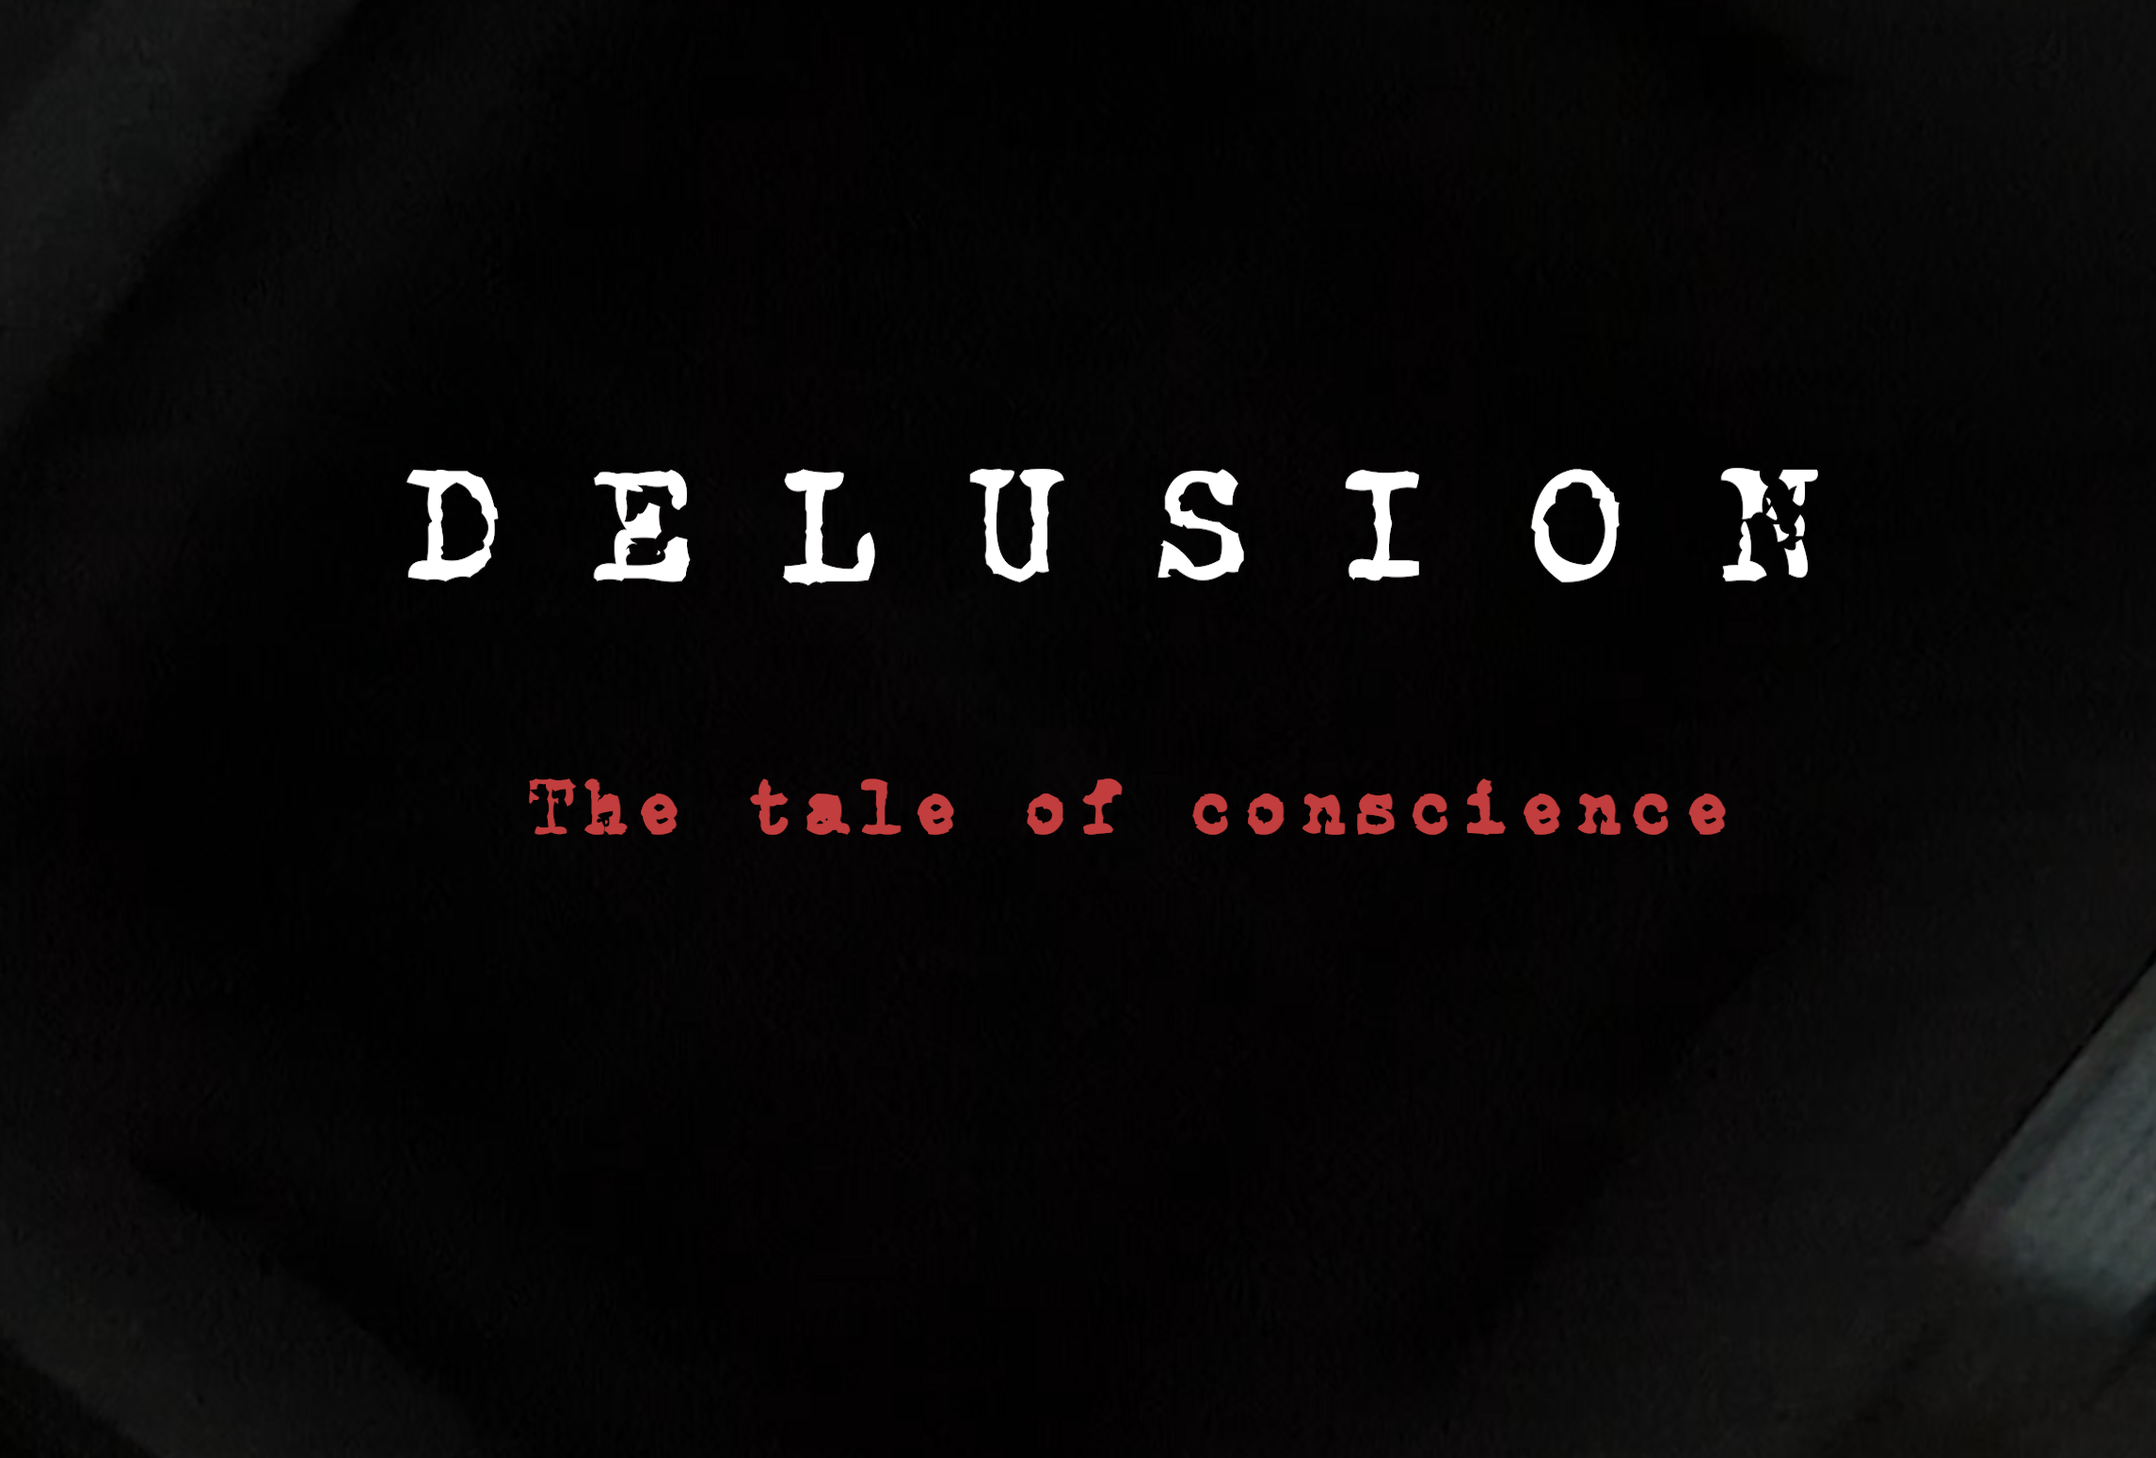
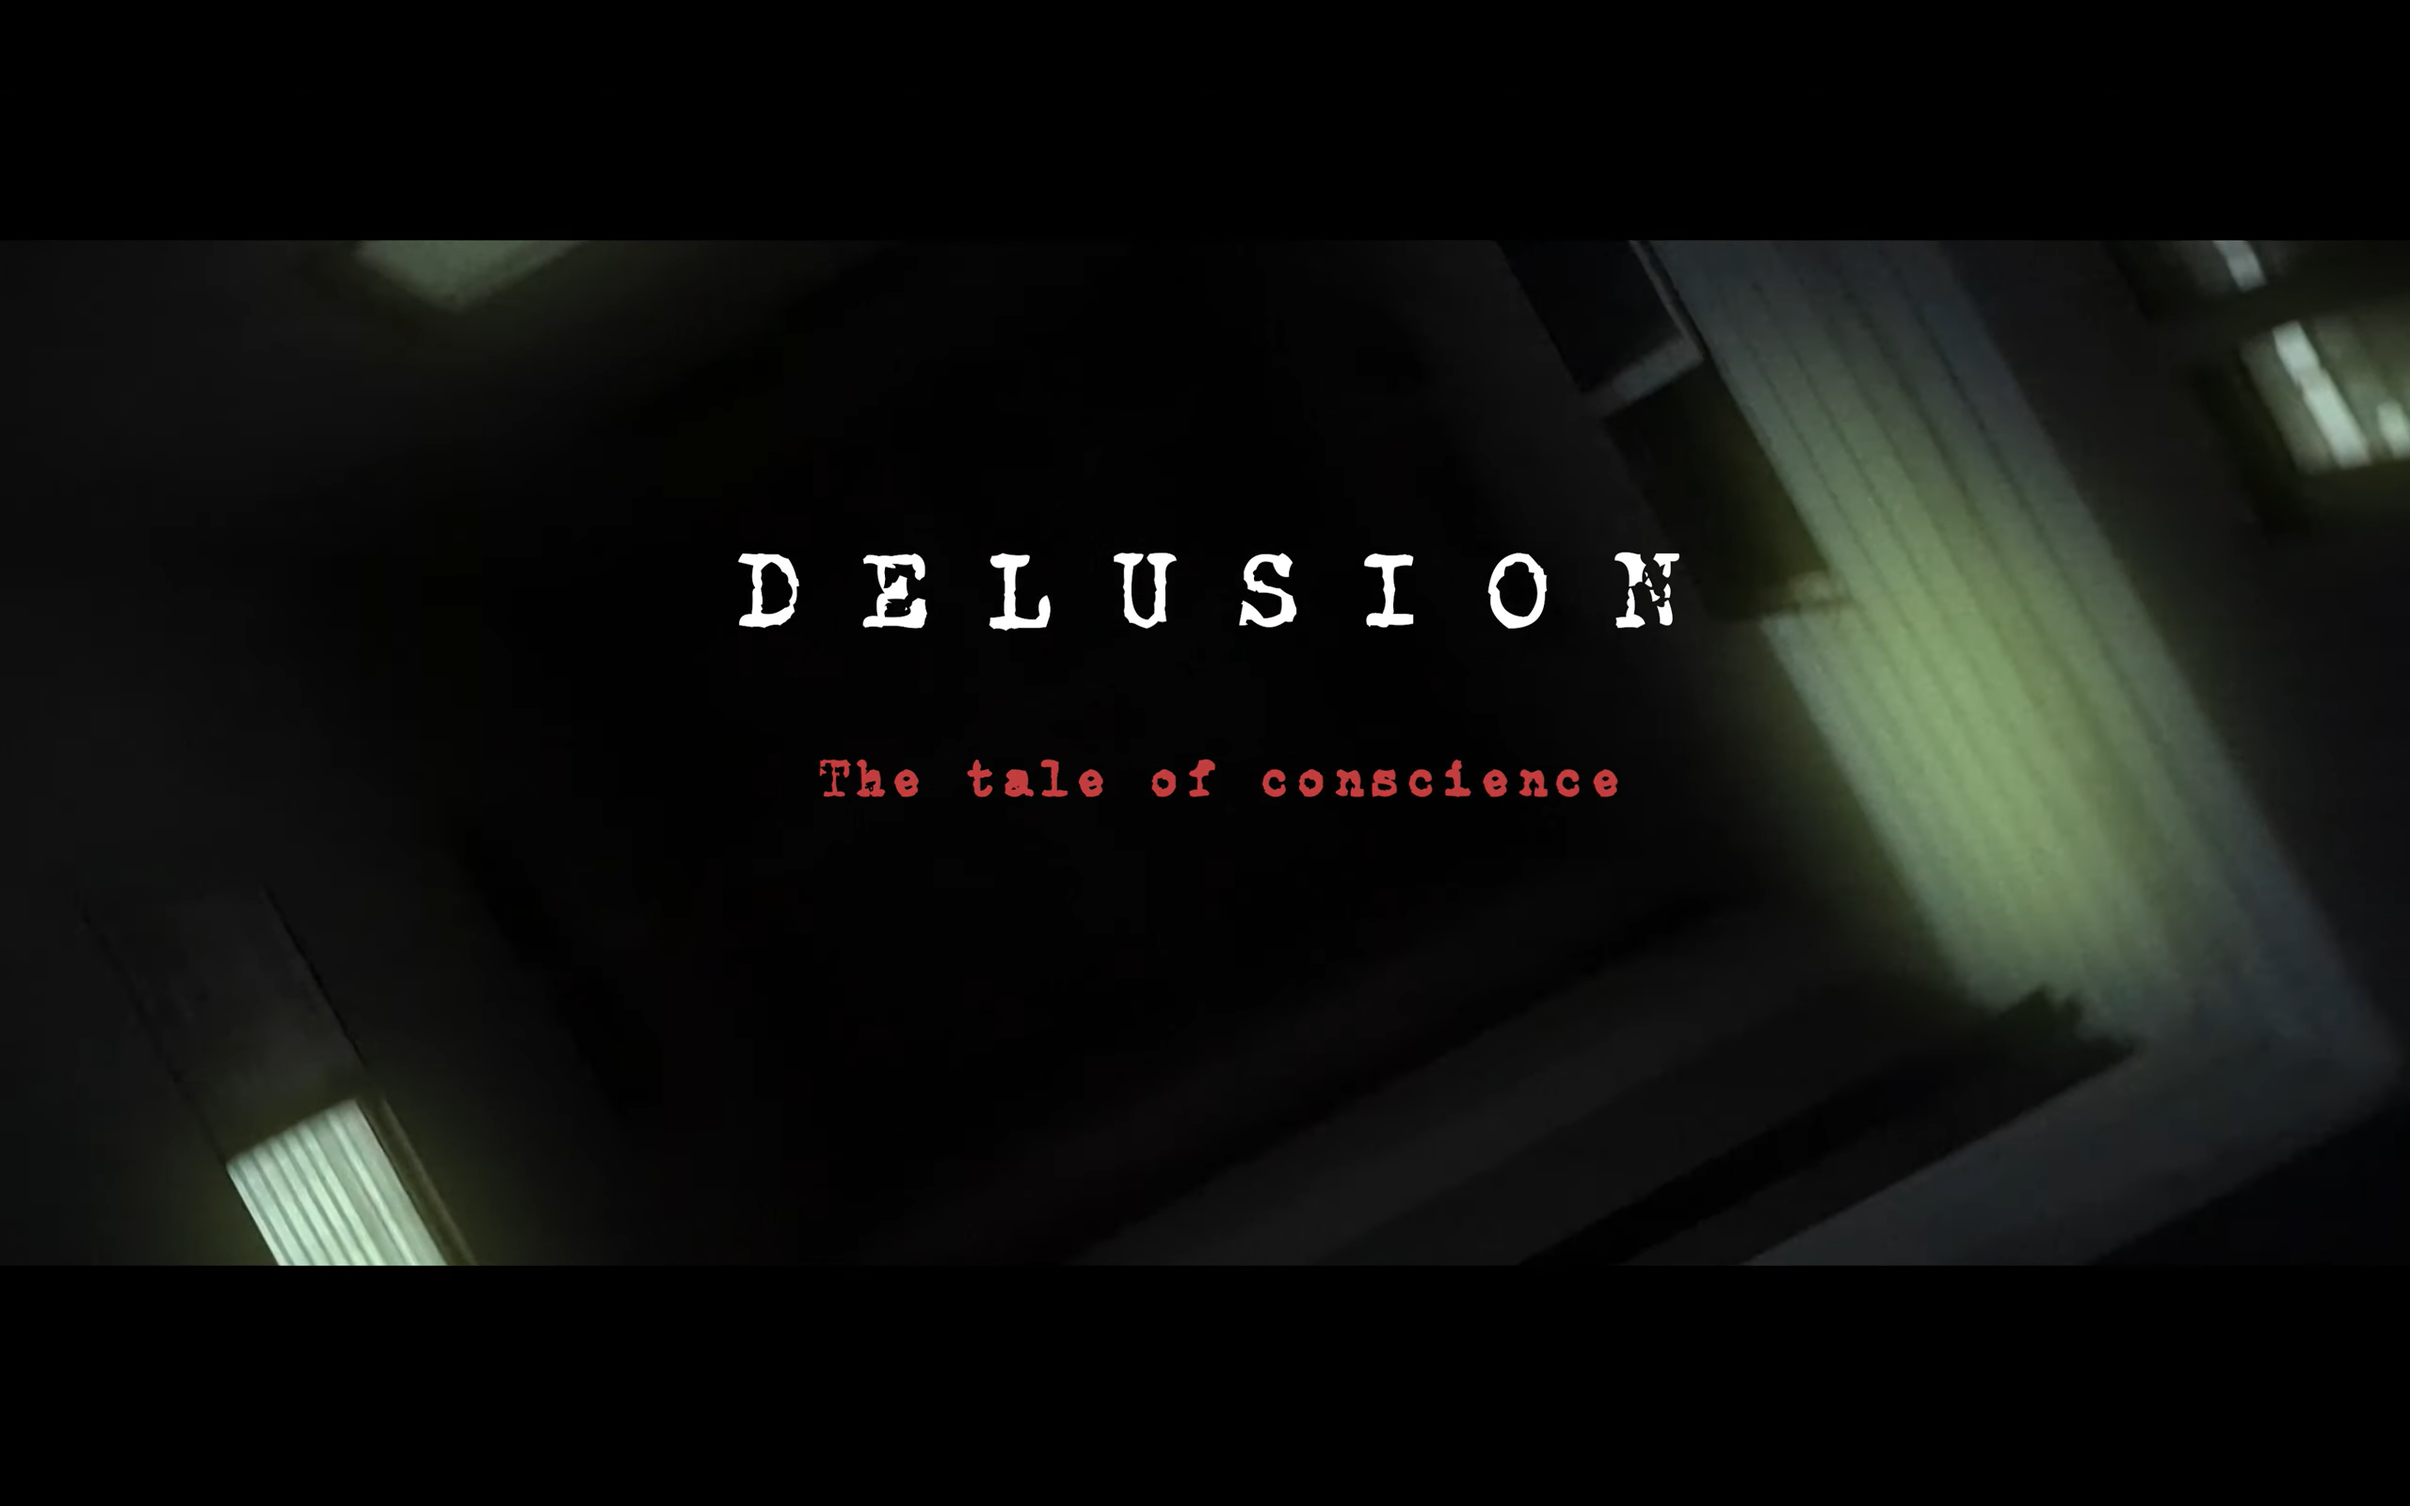
final1

diff --git a/public/works/videos.html b/public/works/videos.html
@@ -4,6 +4,7 @@
 <head>
     <meta charset="UTF-8">
     <title>Naitik's Works</title>
+    <link rel="icon" type="image/x-icon" href="./favicon.png">
     <meta name="robots" content="noindex, nofollow" />
     <link rel="dns-prefetch" href="//stats.wp.com" />
     <link rel="alternate" type="application/rss+xml" title="Elementor Tuts by The Lytbox Academy &raquo; Feed"
@@ -992,7 +993,9 @@
                                 <div class="elementor-element elementor-element-5f0a87ed elementor-widget elementor-widget-heading"
                                     data-id="5f0a87ed" data-element_type="widget" data-widget_type="heading.default">
                                     <div class="elementor-widget-container">
-                                        <h2 class="elementor-heading-title elementor-size-default">Delusion-Short Film
+                                        <h2 class="elementor-heading-title elementor-size-default">Delusion - A Coded
+                                            Short
+                                            Films
                                         </h2>
                                     </div>
                                 </div>
@@ -1034,10 +1037,12 @@
                                             }
                                         </style>
                                         <p>A short film, depicting the mixture of thoughts in the mind of a person from
-                                            the modern earth</p>
+                                            the modern earth. Mostly for editing skills and a hidden story</p>
                                     </div>
                                 </div>
-                                <button class="ytbut">Watch in YouTube</button>
+                                <button class="ytbut"
+                                    onclick="window.location.href='https://youtu.be/rHBQk5pUTjM?si=EnAZRKTya48EwK9u';'_blank'">Watch
+                                    in YouTube</button>
                             </div>
                         </div>
                         <div class="elementor-element elementor-element-5e733559 blob e-flex e-con-boxed e-con e-child"
@@ -1066,26 +1071,28 @@
                                     data-id="56d2d3a2" data-element_type="widget" data-widget_type="image.default">
                                     <div class="elementor-widget-container">
                                         <img fetchpriority="high" decoding="async" width="800" height="800"
-                                            src="./delusion.png" class="attachment-large size-large wp-image-26675"
-                                            alt />
+                                            src="./pond.png" class="attachment-large size-large wp-image-26675" alt />
                                     </div>
                                 </div>
                                 <div class="elementor-element elementor-element-5d66333c elementor-widget elementor-widget-heading"
                                     data-id="5d66333c" data-element_type="widget" data-widget_type="heading.default">
                                     <div class="elementor-widget-container">
-                                        <h2 class="elementor-heading-title elementor-size-default">Hover over this card
-                                            and see the magic happen!</h2>
+                                        <h2 class="elementor-heading-title elementor-size-default">Pondicherry: A
+                                            Cinematic Tour</h2>
                                     </div>
                                 </div>
                                 <div class="elementor-element elementor-element-47e1799e elementor-widget elementor-widget-text-editor"
                                     data-id="47e1799e" data-element_type="widget"
                                     data-widget_type="text-editor.default">
                                     <div class="elementor-widget-container">
-                                        <p>Lorem ipsum dolor sit amet, consectetur adipiscing elit. Ut elit tellus,
-                                            luctus nec ullamcorper mattis, pulvinar dapibus leo.</p>
+                                        <p>Going on a trip, leaving everything unplanned, taking instantaneous
+                                            decisions, all that covered in a 2 min film</p>
                                     </div>
                                 </div>
-                                <button class="ytbut">Watch in YouTube</button>
+                                <button class="ytbut"
+                                    onclick="window.location.href='https://youtu.be/ByAcOevp8Fo?si=RAm0sTBglkyi6rUF';'_blank'">Watch
+                                    in
+                                    YouTube</button>
                             </div>
                         </div>
                         <div class="elementor-element elementor-element-7294984f blob e-flex e-con-boxed e-con e-child"
@@ -1114,26 +1121,27 @@
                                     data-id="6aeff574" data-element_type="widget" data-widget_type="image.default">
                                     <div class="elementor-widget-container">
                                         <img fetchpriority="high" decoding="async" width="800" height="800"
-                                            src="./delusion.png" class="attachment-large size-large wp-image-26675"
-                                            alt />
+                                            src="./tala.png" class="attachment-large size-large wp-image-26675" alt />
                                     </div>
                                 </div>
                                 <div class="elementor-element elementor-element-1456834f elementor-widget elementor-widget-heading"
                                     data-id="1456834f" data-element_type="widget" data-widget_type="heading.default">
                                     <div class="elementor-widget-container">
-                                        <h2 class="elementor-heading-title elementor-size-default">Hover over this card
-                                            and see the magic happen!</h2>
+                                        <h2 class="elementor-heading-title elementor-size-default">Talakona Trek:
+                                            Adventure of risks</h2>
                                     </div>
                                 </div>
                                 <div class="elementor-element elementor-element-3e40e21f elementor-widget elementor-widget-text-editor"
                                     data-id="3e40e21f" data-element_type="widget"
                                     data-widget_type="text-editor.default">
                                     <div class="elementor-widget-container">
-                                        <p>Lorem ipsum dolor sit amet, consectetur adipiscing elit. Ut elit tellus,
-                                            luctus nec ullamcorper mattis, pulvinar dapibus leo.</p>
+                                        <p>Going into the forests, with the most risktaker of the friends, while
+                                            capturing every essence, every fun of the trek.</p>
                                     </div>
                                 </div>
-                                <button class="ytbut">Watch in YouTube</button>
+                                <button class="ytbut"
+                                    onclick="window.location.href='https://youtu.be/Y3JglaR69zc?si=1iy8iC5TM7Ky0Omv';'_blank'">Watch
+                                    in YouTube</button>
                             </div>
                         </div>
                         <div class="elementor-element elementor-element-18aa0f10 blob e-flex e-con-boxed e-con e-child"
@@ -1198,14 +1206,14 @@
                                                 display: inline-block
                                             }
                                         </style> <img fetchpriority="high" decoding="async" width="800" height="800"
-                                            src="./delusion.png" class="attachment-large size-large wp-image-26675"
-                                            alt />
+                                            src="./halc.png" class="attachment-large size-large wp-image-26675" alt />
                                     </div>
                                 </div>
                                 <div class="elementor-element elementor-element-5f0a87ed elementor-widget elementor-widget-heading"
                                     data-id="5f0a87ed" data-element_type="widget" data-widget_type="heading.default">
                                     <div class="elementor-widget-container">
-                                        <h2 class="elementor-heading-title elementor-size-default">Delusion-Short Film
+                                        <h2 class="elementor-heading-title elementor-size-default">Halcyon- The First
+                                            Year Recap
                                         </h2>
                                     </div>
                                 </div>
@@ -1246,8 +1254,7 @@
                                                 display: inline-block
                                             }
                                         </style>
-                                        <p>A short film, depicting the mixture of thoughts in the mind of a person from
-                                            the modern earth</p>
+                                        <p>Montage, the sabotage, the first year showoff of us...Releasing tomorrow</p>
                                     </div>
                                 </div>
                                 <button class="ytbut">Watch in YouTube</button>

diff --git a/data/index.ts b/data/index.ts
@@ -13,7 +13,7 @@ export const gridItems = [
     className: "lg:col-span-3 md:col-span-6 md:row-span-4 lg:min-h-[60vh]",
     imgClassName: "w-full h-full",
     titleClassName: "justify-end",
-    img: "./b1.svg",
+    img: "./b11.png",
     spareImg: "",
     link: "https://github.com/naitikbajpaii"
   },
@@ -55,7 +55,7 @@ export const gridItems = [
     className: "md:col-span-3 md:row-span-2",
     imgClassName: "absolute right-0 bottom-0 md:w-96 w-60",
     titleClassName: "justify-center md:justify-start lg:justify-center",
-    img: "./b5.svg",
+    img: "./b51.png",
     spareImg: "./grid.svg",
   },
   {
@@ -75,8 +75,8 @@ export const projects = [
     id: 1,
     title: "Cinematic Renders",
     des: "Works of my film creation journey, collabs with some talented peeps..",  
-    img: "./p1.svg",
-    iconLists: ["./re.svg", "./tail.svg", "./ts.svg", "./three.svg", "./fm.svg"],
+    img: "./cin.png",
+    iconLists: ["./prm.png", "./afe.png", "./pix.png"],
     link: "./works/videos.html",
     kword: "Watch"
   },
@@ -84,8 +84,8 @@ export const projects = [
     id: 2,
     title: "All of Graphic Design",
     des: "UI Design, Brand Identity, Logos and everything of my design ideas..",
-    img: "./p2.svg",
-    iconLists: ["./next.svg", "./tail.svg", "./ts.svg", "./stream.svg", "./c.svg"],
+    img: "./grp.png",
+    iconLists: ["./fig.png", "./ill.png", "./can.png"],
     link: "https://dribbble.com/naitik_63",
     kword: "Experience"
   },
@@ -93,8 +93,8 @@ export const projects = [
     id: 3,
     title: "Literary Writings",
     des: "Inspired by personal experiences, brewed with 3am thoughts, here are my writings...",
-    img: "./p3.svg",
-    iconLists: ["./re.svg", "./tail.svg", "./ts.svg", "./three.svg", "./c.svg"],
+    img: "./wri.png",
+    iconLists: ["./wiz.png", "./wik.png"],
     link: "https://naitikswrites.blogspot.com/",
     kword: "Read"
   },
@@ -102,8 +102,8 @@ export const projects = [
     id: 4,
     title: "Shutter n Ideas",
     des: "Gotta love these unique and thoughtful frames blended with moody colors..",
-    img: "./p4.svg",
-    iconLists: ["./next.svg", "./tail.svg", "./ts.svg", "./three.svg", "./gsap.svg"],
+    img: "./pho.png",
+    iconLists: ["./pht.png", "./lgr.png", "./pix.png"],
     link: "https://www.pinterest.com/naitikbajpai257",
     kword: "Indulge"
   },

diff --git a/components/RecentProjects.tsx b/components/RecentProjects.tsx
@@ -60,7 +60,7 @@ const RecentProjects = () => {
                         transform: `translateX(-${5 * index + 2}px)`,
                       }}
                     >
-                      <img src={icon} alt="icon5" className="p-2" />
+                      <img src={icon} alt="icon5" className="p-2" style={{ borderRadius: `24px` }} />
                     </div>
                   ))}
                 </div>

diff --git a/app/layout.tsx b/app/layout.tsx
@@ -19,7 +19,7 @@ export default function RootLayout({
   return (
     <html lang="en" suppressHydrationWarning>
       <head>
-        <link rel="icon" href="./jsm-logo.png" sizes="any" />
+        <link rel="icon" href="./favicon.png" sizes="any" />
       </head>
       <body className={inter.className}>
         <ThemeProvider
